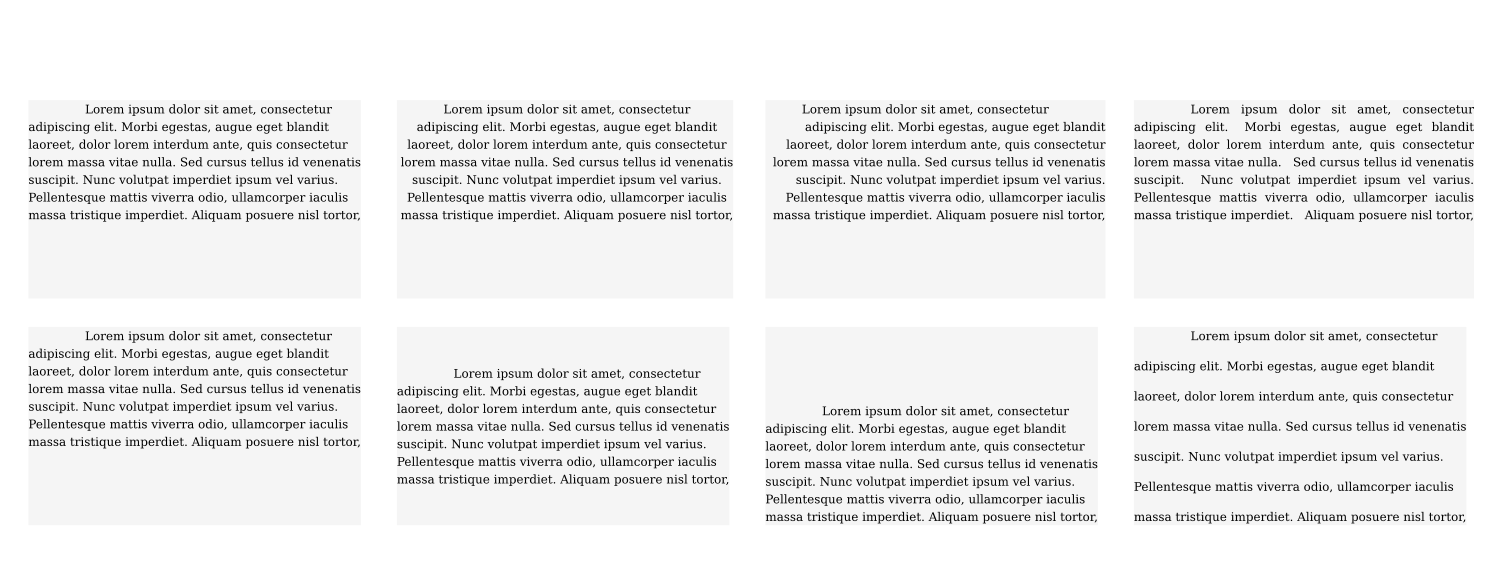
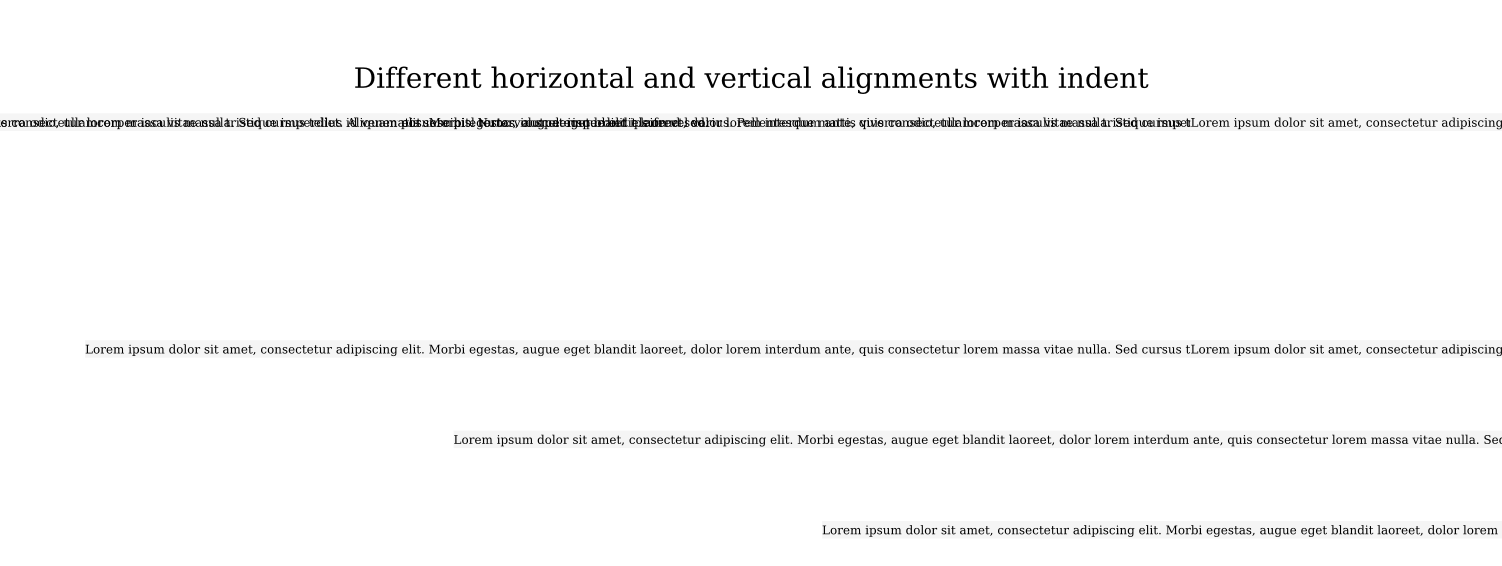
Improve text box functionality wrt line distancing

diff --git a/text.go b/text.go
@@ -20,9 +20,25 @@ const (
 )
 
 type Text struct {
-	lines       [][]lineSpan // each line can have multiple spans
-	dy          float64
-	lineSpacing float64
+	lines []line
+	fonts []*Font
+}
+
+type line struct {
+	lineSpans []lineSpan
+	y         float64
+}
+
+func (l line) Heights() (float64, float64, float64, float64) {
+	top, ascent, descent, bottom := 0.0, 0.0, 0.0, 0.0
+	for _, ls := range l.lineSpans {
+		spanAscent, spanDescent, lineSpacing := ls.span.Heights()
+		top = math.Max(top, spanAscent+lineSpacing)
+		ascent = math.Max(ascent, spanAscent)
+		descent = math.Max(descent, spanDescent)
+		bottom = math.Max(bottom, spanDescent+lineSpacing)
+	}
+	return top, ascent, descent, bottom
 }
 
 type lineSpan struct {
@@ -63,21 +79,22 @@ func calcSpanPosition(textWidth, maxTextWidth float64, halign TextAlign, indent,
 
 func NewText(ff FontFace, s string) *Text {
 	ss := splitNewlines(s)
-	lines := [][]lineSpan{}
+	y := 0.0
+	lines := []line{}
 	for _, s := range ss {
-		lines = append(lines, []lineSpan{{newTextSpan(ff, s), 0.0, 0.0}})
+		span := lineSpan{newTextSpan(ff, s), 0.0, 0.0}
+		lines = append(lines, line{[]lineSpan{span}, y})
+
+		ascent, descent, spacing := span.Heights()
+		y += spacing + ascent + descent + spacing
 	}
-	return &Text{
-		lines:       lines,
-		dy:          0.0,
-		lineSpacing: 0.0,
-	}
+	return &Text{lines, []*Font{ff.f}}
 }
 
 func NewTextBox(ff FontFace, s string, width, height float64, halign, valign TextAlign, indent float64) *Text {
 	// TODO: do inner-word boundaries
-	h, prevLineSpacing := 0.0, 0.0
-	lines := [][]lineSpan{}
+	h := 0.0
+	lines := []line{}
 	var iPrev, iSpace int
 	for i := 0; i < len(s); {
 		r, size := utf8.DecodeRuneInString(s[i:])
@@ -105,17 +122,16 @@ func NewTextBox(ff FontFace, s string, width, height float64, halign, valign Tex
 				dx, spanWidth := calcSpanPosition(textWidth, maxTextWidth, halign, indent, width)
 				ls = lineSpan{textSpan, dx, spanWidth}
 			}
-			ascent, descent, curLineSpacing := ls.span.Heights()
-			topLineSpacing := math.Max(prevLineSpacing, curLineSpacing)
+
+			ascent, descent, lineSpacing := ls.span.Heights()
 			if h == 0.0 {
-				topLineSpacing = 0.0
+				lineSpacing = 0.0
 			}
-			if height != 0.0 && height < h+topLineSpacing+ascent+descent {
+			if height != 0.0 && height < h+lineSpacing+ascent+descent {
 				break
 			}
-			lines = append(lines, []lineSpan{ls})
-			h += topLineSpacing + ascent + descent
-			prevLineSpacing = curLineSpacing
+			lines = append(lines, line{[]lineSpan{ls}, h + lineSpacing + ascent})
+			h += lineSpacing + ascent + descent
 			indent = 0.0
 
 			if i == 0 {
@@ -143,88 +159,69 @@ func NewTextBox(ff FontFace, s string, width, height float64, halign, valign Tex
 		textWidth, _ := textSpan.WidthRange()
 		ls = lineSpan{textSpan, indent, textWidth}
 	}
-	ascent, descent, curLineSpacing := ls.span.Heights()
-	topLineSpacing := math.Max(prevLineSpacing, curLineSpacing)
+	ascent, descent, lineSpacing := ls.span.Heights()
 	if h == 0.0 {
-		topLineSpacing = 0.0
+		lineSpacing = 0.0
 	}
-	if height == 0.0 || h+topLineSpacing+ascent+descent <= height {
-		lines = append(lines, []lineSpan{ls})
-		h += topLineSpacing + ascent + descent
+	if height == 0.0 || h+lineSpacing+ascent+descent <= height {
+		lines = append(lines, line{[]lineSpan{ls}, h + lineSpacing + ascent})
+		h += lineSpacing + ascent + descent
 	}
 
+	// apply vertical alignment
 	dy := 0.0
-	lineSpacing := 0.0
+	extraLineSpacing := 0.0
 	if height != 0.0 && (valign == Bottom || valign == Center || valign == Justify) {
 		if valign == Bottom {
 			dy = height - h
 		} else if valign == Center {
 			dy = (height - h) / 2.0
-		} else {
-			lineSpacing = (height - h) / float64(len(lines)-1)
+		} else if len(lines) > 1 {
+			extraLineSpacing = (height - h) / float64(len(lines)-1)
 		}
 	}
-	return &Text{
-		lines:       lines,
-		dy:          dy,
-		lineSpacing: lineSpacing,
+	for j := range lines {
+		lines[j].y += dy + float64(j)*extraLineSpacing
 	}
+	return &Text{lines, []*Font{ff.f}}
 }
 
+// Bounds returns the rectangle that contains the entire text box. It does not take into account that glyphs can exceed their boxes.
 func (t *Text) Bounds() Rect {
-	var w, h float64
-	firstAscent := 0.0
-	prevLineSpacing := 0.0
-	for j, line := range t.lines {
-		maxAscent, maxHeight, maxLineSpacing := 0.0, 0.0, 0.0
-		for _, ls := range line {
-			w = math.Max(w, ls.dx+ls.w)
-
-			ascent, descent, curLineSpacing := ls.span.Heights()
-			curLineSpacing = math.Max(prevLineSpacing, curLineSpacing)
-			maxAscent = math.Max(maxAscent, ascent)
-			if maxHeight < curLineSpacing+ascent+descent {
-				maxHeight = curLineSpacing + ascent + descent
-				maxLineSpacing = curLineSpacing
-			}
-		}
-		h += maxHeight + t.lineSpacing
-		if j == 0 {
-			firstAscent = maxAscent
-			h -= maxLineSpacing
-		}
-		prevLineSpacing = maxLineSpacing
+	if len(t.lines) == 0 {
+		return Rect{}
 	}
-	return Rect{0.0, firstAscent, w, -h}
+	x := math.Inf(1.0)
+	w := 0.0
+	for _, line := range t.lines {
+		for _, ls := range line.lineSpans {
+			x = math.Min(x, ls.dx)
+			w = math.Max(w, ls.dx+ls.w)
+		}
+	}
 
+	firstLine := t.lines[0]
+	_, ascent, _, _ := firstLine.Heights()
+	y := firstLine.y - ascent
+
+	lastLine := t.lines[len(t.lines)-1]
+	_, _, descent, _ := lastLine.Heights()
+	h := ascent + lastLine.y - firstLine.y + descent
+	return Rect{x, -y, w, -h}
 }
 
 // ToPath makes a path out of the text, with x,y the top-left point of the rectangle that fits the text (ie. y is not the text base)
 func (t *Text) ToPath(x, y float64) *Path {
 	p := &Path{}
-	y -= t.dy
-	prevLineSpacing := 0.0
 	for _, line := range t.lines {
-		maxHeight, maxLineSpacing := 0.0, 0.0
-		for _, ls := range line {
-			p.Append(ls.span.ToPath(x+ls.dx, y, ls.w))
-
-			ascent, descent, curLineSpacing := ls.span.Heights()
-			curLineSpacing = math.Max(prevLineSpacing, curLineSpacing)
-			if maxHeight < curLineSpacing+ascent+descent {
-				maxHeight = curLineSpacing + ascent + descent
-				maxLineSpacing = curLineSpacing
-			}
+		for _, ls := range line.lineSpans {
+			p.Append(ls.span.ToPath(x+ls.dx, y-line.y, ls.w))
 		}
-		y -= maxHeight + t.lineSpacing
-		prevLineSpacing = maxLineSpacing
 	}
 	return p
 }
 
 func (t *Text) ToSVG(x, y, rot float64, c color.Color) string {
-	y += t.dy
-
 	sb := strings.Builder{}
 	sb.WriteString("<text x=\"")
 	writeFloat64(&sb, x)
@@ -246,10 +243,7 @@ func (t *Text) ToSVG(x, y, rot float64, c color.Color) string {
 	sb.WriteString("\">")
 
 	for _, line := range t.lines {
-		h := 0.0
-		for _, ls := range line {
-			ascent, descent, lineSpacing := ls.span.Heights()
-			h = math.Max(h, ascent+descent+lineSpacing)
+		for _, ls := range line.lineSpans {
 			switch span := ls.span.(type) {
 			case textSpan:
 				name, style, size := span.ff.Info()
@@ -257,7 +251,7 @@ func (t *Text) ToSVG(x, y, rot float64, c color.Color) string {
 					sb.WriteString("<tspan x=\"")
 					writeFloat64(&sb, x+dx)
 					sb.WriteString("\" y=\"")
-					writeFloat64(&sb, y)
+					writeFloat64(&sb, y+line.y)
 					if w != 0.0 {
 						sb.WriteString("\" textLength=\"")
 						writeFloat64(&sb, w)
@@ -281,7 +275,6 @@ func (t *Text) ToSVG(x, y, rot float64, c color.Color) string {
 				panic("unsupported span type")
 			}
 		}
-		y += h + t.lineSpacing
 	}
 	sb.WriteString("</text>")
 	return sb.String()

diff --git a/example/example.go b/example/example.go
@@ -78,16 +78,16 @@ func drawText(c *canvas.C, x, y float64, size float64, s string) {
 	c.SetColor(canvas.Gainsboro)
 	c.DrawPath(x, y, 0.0, rect.ToPath())
 	c.SetColor(color.RGBA{0, 0, 0, 50})
-	c.DrawPath(x, y, 0.0, canvas.Rectangle(0, metrics.Ascent, rect.W, -metrics.LineHeight))
-	c.DrawPath(x, y, 0.0, canvas.Rectangle(0, metrics.CapHeight, rect.W, -metrics.CapHeight-metrics.Descent))
-	c.DrawPath(x, y, 0.0, canvas.Rectangle(0, metrics.XHeight, rect.W, -metrics.XHeight))
+	c.DrawPath(x, y, 0.0, canvas.Rectangle(0, 0, rect.W, -metrics.LineHeight))
+	c.DrawPath(x, y, 0.0, canvas.Rectangle(0, metrics.CapHeight-metrics.Ascent, rect.W, -metrics.CapHeight-metrics.Descent))
+	c.DrawPath(x, y, 0.0, canvas.Rectangle(0, metrics.XHeight-metrics.Ascent, rect.W, -metrics.XHeight))
 
 	c.SetColor(canvas.Black)
 	c.DrawText(x, y, 0.0, text)
 }
 
 func Draw(c *canvas.C) {
-	drawText(c, 10, 60, 28.0, "Justified and \"typographics\"")
+	drawText(c, 10, 70, 28.0, "Aap noot mies \"fi ffi ffl\"")
 
 	face := dejaVuSerif.Face(80.0)
 	p := canvas.NewText(face, "Stroke").ToPath(0.0, 0.0)

diff --git a/example/text_example.go b/example/text_example.go
@@ -36,9 +36,8 @@ func drawText(c *canvas.C, x, y float64, halign, valign canvas.TextAlign, indent
 	face := dejaVuSerif.Face(6.0)
 	phrase := "Lorem ipsum dolor sit amet, consectetur adipiscing elit. Morbi egestas, augue eget blandit laoreet, dolor lorem interdum ante, quis consectetur lorem massa vitae nulla. Sed cursus tellus id venenatis suscipit. Nunc volutpat imperdiet ipsum vel varius. Pellentesque mattis viverra odio, ullamcorper iaculis massa tristique imperdiet. Aliquam posuere nisl tortor, in scelerisque elit eleifend sed."
 
-	text := canvas.NewTextBox(face, phrase, 60.0, 35.0, halign, valign, indent)
+	text := canvas.NewTextBox(face, phrase, 0.0, 35.0, halign, valign, indent)
 	rect := text.Bounds()
-	rect.H = -35.0
 	c.SetColor(canvas.WhiteSmoke)
 	c.DrawPath(x, y, 0.0, rect.ToPath())
 	c.SetColor(canvas.Black)

diff --git a/canvas.go b/canvas.go
@@ -122,21 +122,17 @@ func (c *C) DrawPath(x, y, rot float64, p *Path) {
 }
 
 func (c *C) DrawText(x, y, rot float64, text *Text) {
-	// TODO: this is ugly and slow
-	for _, line := range text.lines {
-		for _, ls := range line {
-			if ts, ok := ls.span.(textSpan); ok {
-				found := false
-				for _, f := range c.fonts {
-					if f == ts.ff.f {
-						found = true
-						break
-					}
-				}
-				if !found {
-					c.fonts = append(c.fonts, ts.ff.f)
-				}
+	// TODO: is this too ugly?
+	for _, font := range text.fonts {
+		found := false
+		for _, f := range c.fonts {
+			if f == font {
+				found = true
+				break
 			}
+		}
+		if !found {
+			c.fonts = append(c.fonts, font)
 		}
 	}
 	c.layers = append(c.layers, layer{textLayer, x, y, rot, c.color, nil, text})
